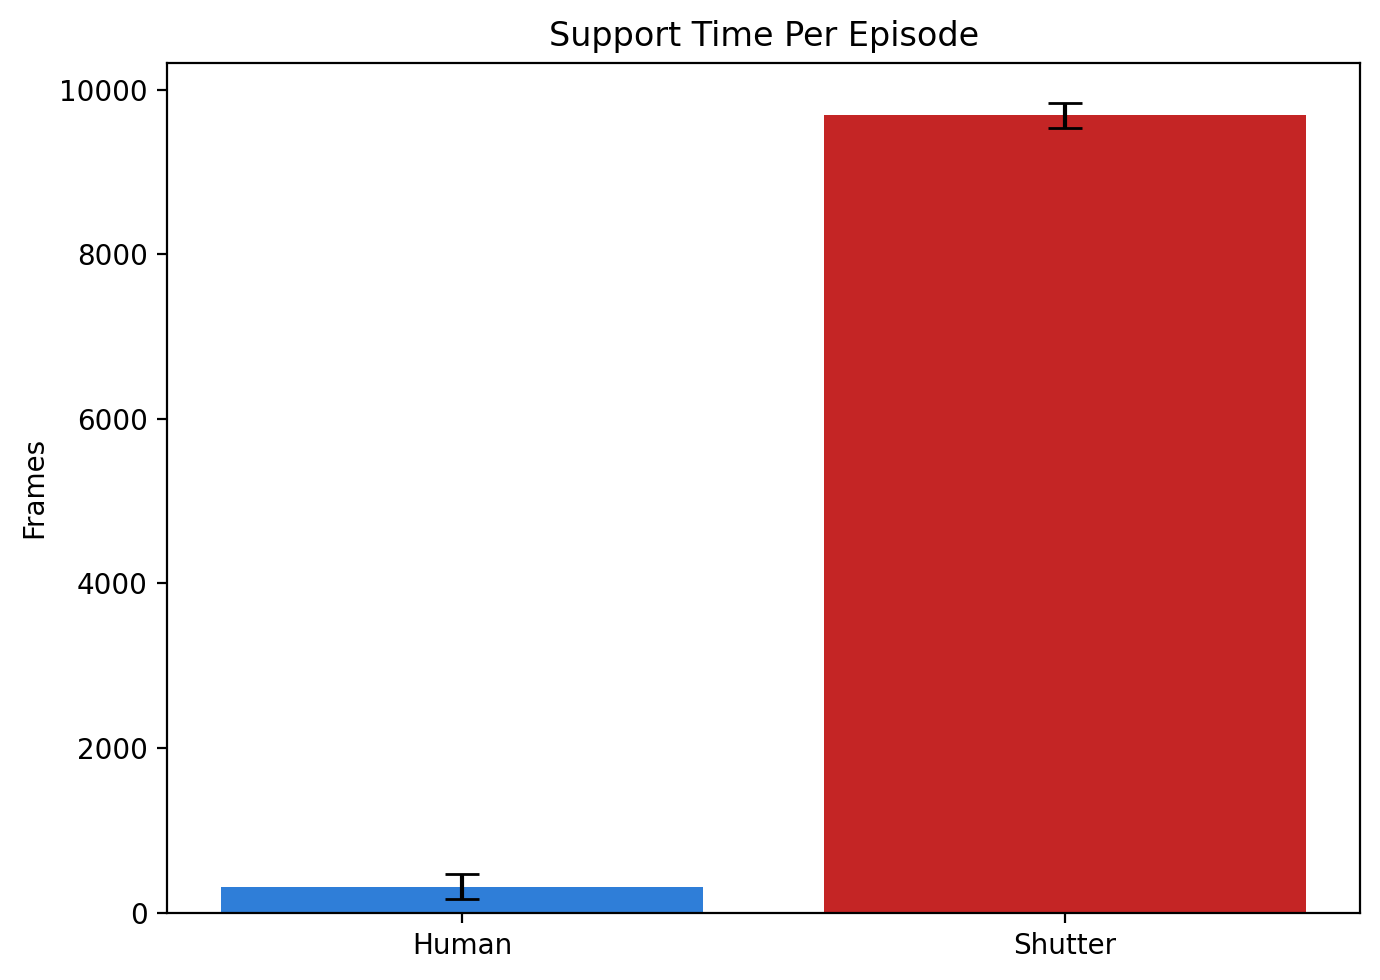
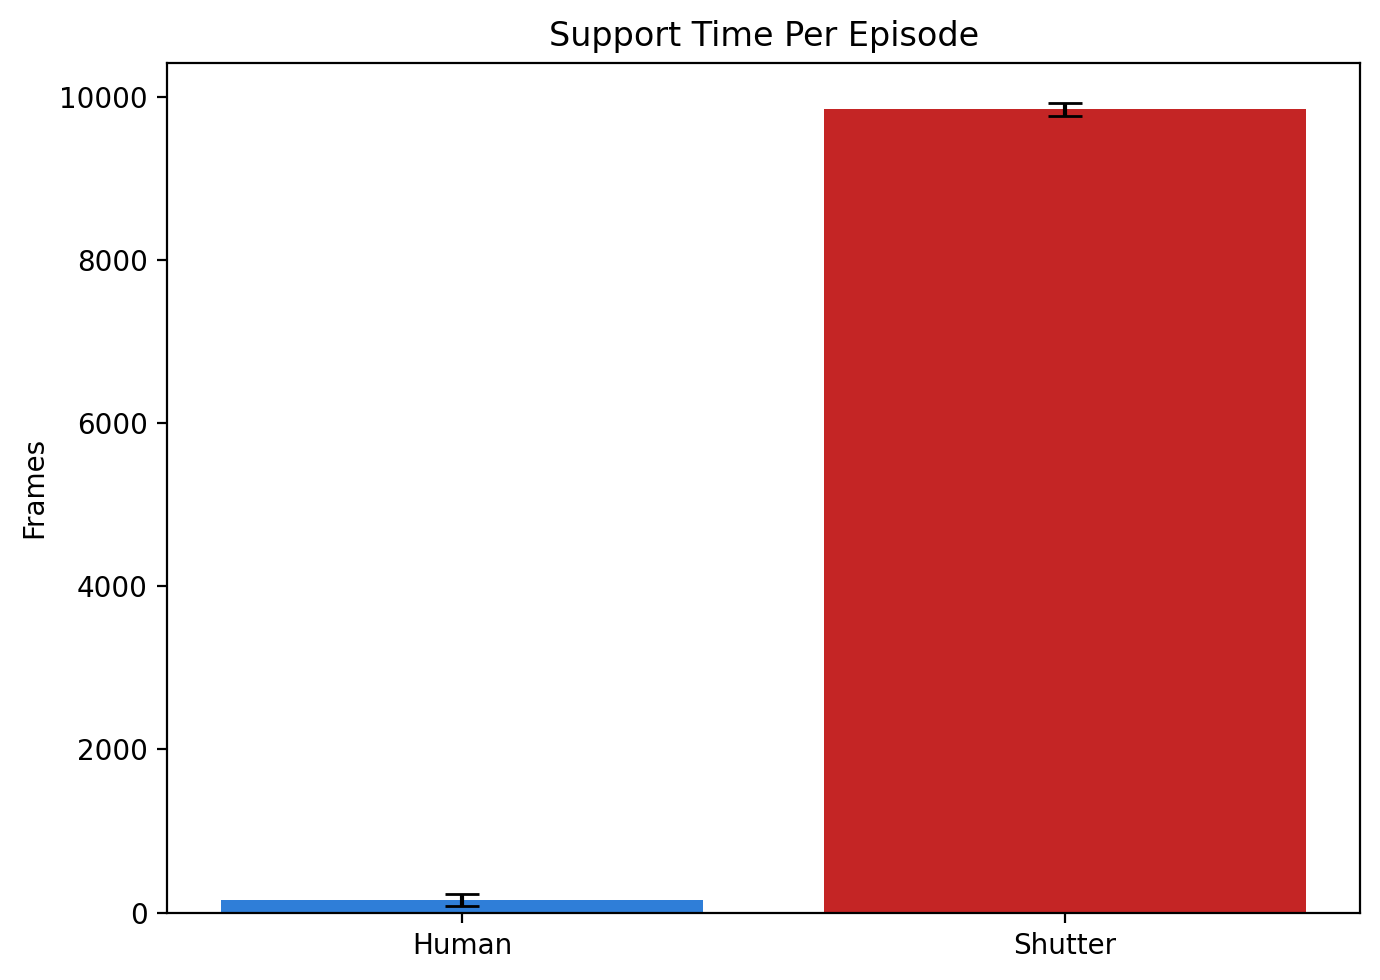
implemented skills

diff --git a/env/competitive_env.py b/env/competitive_env.py
@@ -11,11 +11,12 @@ from consts import InitialStateConsts, DynamicsConsts, RewardConsts, ScoreConsts
 from env_utils import load_ship_image, load_bullet_image, SpaceInvadersState, SpaceInvadersConfig, SpaceInvadersRenderObjects
 from env_utils import index_to_boolean_policy, boolean_policy_to_index, tie_breaker_actions, frames_to_seconds, seconds_to_frames
 from agents.policies import human_rules_based_policy_from_state
-from consts import RewardTypes, NaoSupportPolicies, RenderModes, ActionSpaces, action_space_to_player, InteractiveModes, GameTypes
+from consts import RewardTypes, NaoSupportPolicies, RenderModes, ActionSpaces, action_space_to_player, InteractiveModes, GameTypes, sample,PlayerShootingAdjustment
 from env_utils import StepInfo
 from agents.policies import SingleAgentAction
 from agents.control_mapping import PyGameGamepad
 from interactive_gameplay.utils import PygameEventWaiter, PyGameGamepad
+from scipy.stats import truncnorm
 
 
 from collections import deque
@@ -331,7 +332,8 @@ class CompetitiveSpaceInvadersEnv(gym.Env):
         # disadvantaged_idle_prob=0.0,
         # disadvantaged_extra_shot_cooldown_frames=0,
         human_weak_player_flag = False,
-        shutter_weak_player_flag = False
+        shutter_weak_player_flag = False,
+        adjust_player_shooting = PlayerShootingAdjustment.BOTH
     ):
         """
         Arguments:
@@ -358,8 +360,13 @@ class CompetitiveSpaceInvadersEnv(gym.Env):
             # disadvantaged_idle_prob=disadvantaged_idle_prob,
             # disadvantaged_extra_shot_cooldown_frames=disadvantaged_extra_shot_cooldown_frames,
             shutter_weak_player_flag = shutter_weak_player_flag,
-            human_weak_player_flag = human_weak_player_flag
+            human_weak_player_flag = human_weak_player_flag,
+            adjust_player_shooting  = adjust_player_shooting 
         )
+        self.adjust_player_shooting = adjust_player_shooting 
+
+   
+
         self.human_weak_player_flag = human_weak_player_flag
         self.shutter_weak_player_flag = shutter_weak_player_flag
 
@@ -412,6 +419,8 @@ class CompetitiveSpaceInvadersEnv(gym.Env):
         # Initialize clock
         self.clock = pygame.time.Clock()
         #self.state.start_time = time.time() # Start time for the game
+        
+        #create a shooting threshold depending on wether the 
 
     # Determine if using virtual display (not shown on screen but allowing pygame to compute placement of visual elements)
     def _using_visible_display(self):
@@ -517,6 +526,10 @@ class CompetitiveSpaceInvadersEnv(gym.Env):
         info = self._get_info()
 
         self.clock = pygame.time.Clock() # Reset clock
+        if self.adjust_player_shooting == 'both':
+            #randomly select both players to be either good or bad
+            self.human_shooting_threshold_this_episode, self.human_playerSkill_description= sample()
+            self.shutter_shooting_threshold_this_episode, self.shutter_playerSkill_description= sample()
 
         return observation, info
 
@@ -1273,11 +1286,18 @@ class CompetitiveSpaceInvadersEnv(gym.Env):
             if available_slots:
                 #print('able to shoot')
                 #if under the threshold then don't shoot. Adding this here because jsut because it can shoot doesn't necessarily mean it will because there may not be sufficient bullet slots 
-                if agent == 'Shutter' and self.shutter_weak_player_flag and random.random() >= PlayerPerformanceConsts.SHOOTING_THRESHOLD:
+                if agent == 'Shutter' and self.shutter_weak_player_flag and random.random() >= PlayerPerformanceConsts.SINGLE_SHOOTING_THRESHOLD:
                     return False
-                if  agent == 'Human' and self.human_weak_player_flag and random.random() >= PlayerPerformanceConsts.SHOOTING_THRESHOLD:
+                if  agent == 'Human' and self.human_weak_player_flag and random.random() >= PlayerPerformanceConsts.SINGLE_SHOOTING_THRESHOLD:
                     #print('not shooting')
                     return False
+                
+                if self.adjust_player_shooting == "both" and agent == 'Shutter' and random.random() >= self.shutter_shooting_threshold_this_episode:
+                    return False
+                if self.adjust_player_shooting == "both" and agent == 'Human' and random.random() >= self.human_shooting_threshold_this_episode:
+                    return False
+
+                     
                 index =  min(available_slots)  # Get the lowest available slot
                 self.state.bullet_state.player_bullets[index] = [self.get_agent_position(agent)[0], self.get_agent_position(agent)[1] + bullet_speed, agent]
                 self.state.bullet_state.playerb_used.append(index)

diff --git a/consts.py b/consts.py
@@ -3,6 +3,7 @@ import os
 from enum import Enum
 from math import ceil
 from units_utils import seconds_to_frames
+from scipy.stats import truncnorm
 
 class RenderConsts:
 
@@ -87,9 +88,27 @@ class RewardConsts:
 
     LEADING_SCORE_THRESHOLD = 50
 
+
 class PlayerPerformanceConsts:
     #threshold that has to be surpassed
-    SHOOTING_THRESHOLD = .01
+    SINGLE_SHOOTING_THRESHOLD = .25 #.01 #np.random.normal(mu, sigma, num_samples)  #.01 For low skill, range goes from .01(about 330 ish for score) to .005 (290), .001(90 points)
+    # .05 gives around 650 
+    #.09 gives about 700
+    #.15 gives about 750
+    #.25 gives about 800
+    HUMAN_SHOOTING_THRESHOLD = .25
+    SHUTTER_SHOOTING_THRESHOLD = .25
+
+
+
+
+    # mu = 0.01
+    # sigma = 0.003
+    # a = 0.001
+
+    # a_std = (a - mu) / sigma
+
+    # SHOOTING_THRESHOLD = truncnorm.rvs(a_std, np.inf, loc=mu, scale=sigma)
 
 class ScoreConsts:
     BONUS_FOR_HITTING_ENEMY = 10
@@ -383,6 +402,13 @@ class ValueFunctionType(EnhancedEnum):
     Q_FUNCTION = "QFunction"
     MC_ROLLOUT = "MCRollout"
 
+class PlayerShootingAdjustment(EnhancedEnum):
+    #Choose which player to adjust the shooting level of
+    HUMAN= 'human'
+    SHUTTER = 'shutter'
+    BOTH = 'both'
+
+
 def action_space_to_player(action_space):
     if action_space == ActionSpaces.HUMAN_ONLY:
         return Players.HUMAN
@@ -394,6 +420,23 @@ def action_space_to_player(action_space):
         raise NotImplementedError("Joint agent not supported")
     else:
         raise ValueError(f"Invalid action space: {action_space}")
+
+# def sample():
+#     if np.random.rand() < 0.5:
+#         return np.random.normal(0.01, 0.003), "low_skill_player"
+#     else:
+#         return np.random.normal(0.15, 0.027), "high_skill_player" 
+
+def sample_truncated_normal(mu, sigma, low=0.0, high=1.0):
+    a = (low - mu) / sigma
+    b = (high - mu) / sigma
+    return truncnorm.rvs(a, b, loc=mu, scale=sigma)
+
+def sample():
+    if np.random.rand() < 0.5:
+        return sample_truncated_normal(0.01, 0.003), "low_skill_player"
+    else:
+        return sample_truncated_normal(0.15, 0.027), "high_skill_player"
     
 class InteractiveModes(EnhancedEnum):
     NONE = "none"

diff --git a/curriculum_training.py b/curriculum_training.py
@@ -16,7 +16,7 @@ from deep_sarsa import DeepSarsa
 from path_consts import EXPERIMENTS_DIR
 from utils import init_experiment_dir, create_env, register_env
 from env_utils import boolean_policy_to_index
-from consts import DynamicsConsts, ObservationConsts, RewardTypes, GameTypes, RenderModes, HumanPolicies, NaoSupportPolicies, ActionSpaces, MinimalComplexityHumanPolicies, Players, PlayerShootingAdjustment
+from consts import DynamicsConsts, ObservationConsts, RewardTypes, GameTypes, RenderModes, HumanPolicies, NaoSupportPolicies, ActionSpaces, MinimalComplexityHumanPolicies, Players
 from agents.policies import human_rules_based_policy_from_obs, create_exploration_policy_fn
 #by running: python train_new.py --timesteps 100 --exp-name baseline_run_2 --support-policy biasedSupportLeft you are training the human 
 
@@ -260,15 +260,6 @@ def parse_args():
         action="store_true",
         help="Whether the shutter agent is a weak player (default: %(default)s)",
     )
-    
-    parser.add_argument(
-        "--adjust-player-shooting",
-        type=str,
-        default=None,
-        choices=PlayerShootingAdjustment.values(),
-        help="Adjusting the shooting of a player, human, shutter, or both(default: %(default)s)",
-    )
-
 
     args = parser.parse_args()
     return args
@@ -359,7 +350,6 @@ def main():
         # render=args.render_during_training,
         shutter_weak_player_flag = args.shutter_weak_player ,
         human_weak_player_flag = args.human_weak_player,
-        adjust_player_shooting = args.adjust_player_shooting,
         fixed_framerate=None
     )
     env = create_env(**env_creation_args)

diff --git a/tests.py b/tests.py
@@ -9,7 +9,7 @@ import matplotlib.pyplot as plt
 import numpy as np
 from stable_baselines3 import DQN
 
-from consts import ActionSpaces, DynamicsConsts, GameTypes, NaoSupportPolicies, Players, RewardTypes
+from consts import ActionSpaces, DynamicsConsts, GameTypes, NaoSupportPolicies, Players, RewardTypes, PlayerShootingAdjustment
 from deep_sarsa import DeepSarsa
 from path_consts import ANALYSIS_RESULTS_DIR, get_manual_model_path
 from utils import create_env, init_experiment_dir, register_env
@@ -63,6 +63,13 @@ def parse_args():
         "--shutter-weak-player",
         action="store_true",
         help="Whether the shutter agent is a weak player (default: %(default)s)",
+    )
+    parser.add_argument(
+        "--adjust-player-shooting",
+        type=str,
+        default="both",
+        choices=PlayerShootingAdjustment.values(),
+        help="Adjusting the shooting of a player, human, shutter, or both(default: %(default)s)",
     )
     return parser.parse_args()
 
@@ -430,6 +437,9 @@ def main():
         independent_victory_score_threshold=args.independent_victory_score_threshold,
         shutter_weak_player_flag = args.shutter_weak_player ,
         human_weak_player_flag = args.human_weak_player,
+        adjust_player_shooting = args.adjust_player_shooting,
+
+        
     )
 
     model = load_trained_model(model_path=model_path, env=env)

diff --git a/utils.py b/utils.py
@@ -239,6 +239,7 @@ def create_env(
     game_type=GameTypes.COMPETITIVE,
     human_weak_player_flag=False,
     shutter_weak_player_flag=False,
+    adjust_player_shooting=None,
 ):    
     if not is_env_registered(env_id):
         raise ValueError(f"Environment {env_id} not registered. Use register_env() to register the environment.")
@@ -277,6 +278,7 @@ def create_env(
                 "game_type": game_type,
                 "human_weak_player_flag": human_weak_player_flag,
                 "shutter_weak_player_flag": shutter_weak_player_flag,
+                "adjust_player_shooting": adjust_player_shooting,
             },
         )
         if render or fixed_framerate is not None:
@@ -304,6 +306,7 @@ def create_env(
             game_type=game_type,
             human_weak_player_flag=human_weak_player_flag,
             shutter_weak_player_flag=shutter_weak_player_flag,
+            adjust_player_shooting=adjust_player_shooting,
         )
         env = EnvRenderWrapper(env, render=render, framerate=fixed_framerate)
         env.reset()

diff --git a/run_trained_model_vanilla.py b/run_trained_model_vanilla.py
@@ -26,6 +26,12 @@ def parse_args():
         action="store_true",
         help="Whether the shutter agent is a weak player (default: %(default)s)",
     )
+    parser.add_argument(
+        "--adjust-player-shooting",
+        default=None,
+        choices=PlayerShootingAdjustment.values(),
+        help="Adjusting the shooting of a player, human, shutter, or both(default: %(default)s)",
+    )
     return parser.parse_args()
 
 MODEL_PATH = "experiments/testing_feature/models/env=competitive__support=equalSupport__reward=naoFairness.pt"
@@ -55,6 +61,7 @@ def main():
         fixed_framerate=DynamicsConsts.FRAMES_PER_SECOND,
         shutter_weak_player_flag = args.shutter_weak_player ,
         human_weak_player_flag = args.human_weak_player,
+        adjust_player_shooting = args.adjust_player_shooting
 
     )
 

diff --git a/env_utils.py b/env_utils.py
@@ -1291,6 +1291,7 @@ class SpaceInvadersConfig(StrictDataclass):
     game_type: GameTypes
     human_weak_player_flag: bool
     shutter_weak_player_flag: bool
+    adjust_player_shooting: Optional[str] = None
 
     def __post_init__(self):
         super().__post_init__()
